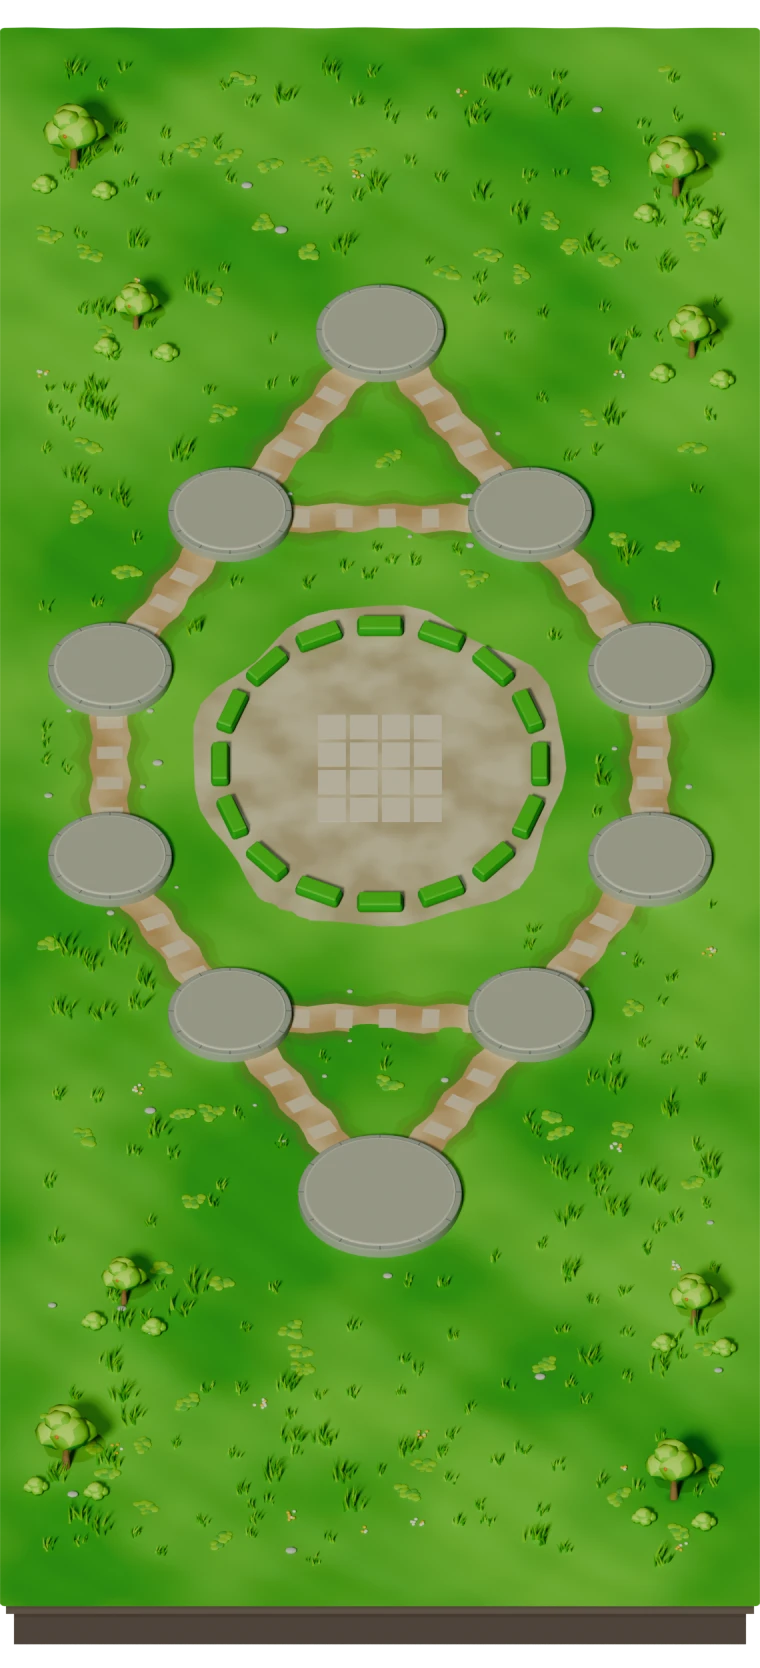
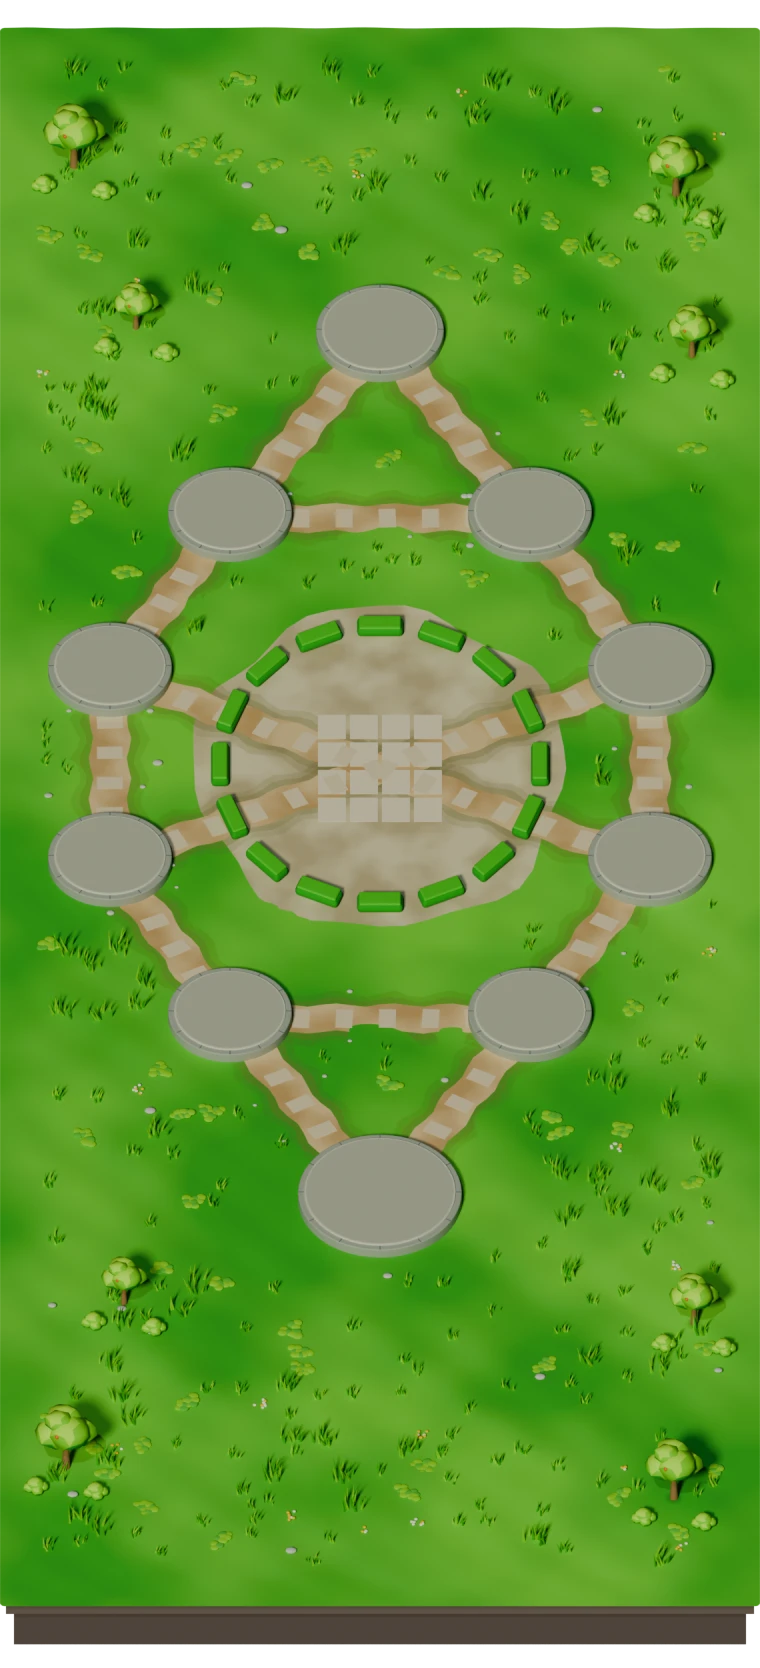
Add centre diagonals to Royal Ring so both sides reliably clash
Royal Ring was a pure ring: each frontier tower had one hostile road, so a
50% send (max 20) could never break a full 40-unit tower and 22 of 144 probe
games froze with no clash. Two 180-degree-symmetric roads (w_s-e_n, e_s-w_n)
give each frontier tower a second attacker. Probe: no-contact 22 -> 0, other
maps identical, win rates within 3 pp. Roads live in the shared
battlefields.json so TS and Go stay identical; the ground plate is re-baked
and the map art revision bumped to v1.7.

diff --git a/packages/game-core/src/__tests__/royal-ring-contact.test.ts b/packages/game-core/src/__tests__/royal-ring-contact.test.ts
@@ -1,0 +1,67 @@
+import { describe, expect, it } from 'vitest';
+import {
+  createInitialGameState, dispatchArmy, evaluateTacticalMoves, findDispatchRoute, getBattlefield,
+  getBotAiTickSeconds, stepSimulation, tacticalNeighbors, type BotDifficulty, type GameState,
+} from '../index.js';
+
+/**
+ * Royal Ring used to be a pure ring: each frontier tower had exactly one hostile
+ * road, so a 50% send (at most 20 from a 40-unit tower) could never break a full
+ * 40-unit tower and both halves froze with no clash (rules-v4.md, Balance probe).
+ * The two centre diagonals give each frontier tower a second attacking source.
+ */
+function playUntilFirstClash(map: 'royal_ring' | 'crown_cross' | 'twin_passes', difficulty: BotDifficulty, playerCadence: number): number | null {
+  let state: GameState = createInitialGameState({ gameplayRulesVersion: 4, battlefieldId: map });
+  let accumulators: Record<string, number> = {};
+  let id = 0;
+  const every = { enemy: Math.round(getBotAiTickSeconds(difficulty) / 0.02), player: Math.round(playerCadence / 0.02) };
+  const next = { ...every };
+  for (let tick = 1; tick <= 4500 && state.status === 'playing'; tick++) {
+    const step = stepSimulation(state, accumulators, 0.02);
+    state = step.state; accumulators = step.accumulators;
+    if (step.resolvedArrivals.some(r => r.previousOwner !== 'neutral' && r.attackerOwner !== r.previousOwner)) return state.elapsedTimeSeconds;
+    for (const team of ['enemy', 'player'] as const) {
+      if (state.status !== 'playing' || tick < next[team]) continue;
+      next[team] += every[team];
+      for (const move of evaluateTacticalMoves(state, team)) {
+        const d = dispatchArmy(state.territories[move.fromId], state.territories[move.toId], team, 0.5, () => `r${id++}`, 1, state);
+        if (!d.success || !d.sourceTerritory || !d.army) continue;
+        state.territories[move.fromId] = d.sourceTerritory;
+        state.armies.push(d.army);
+      }
+    }
+  }
+  return null;
+}
+
+describe('Royal Ring contact pacing', () => {
+  it('gives each frontier tower a second hostile road (centre diagonals)', () => {
+    const ring = getBattlefield('royal_ring');
+    expect(ring.roads).toHaveLength(14);
+    const state = createInitialGameState({ gameplayRulesVersion: 4, battlefieldId: 'royal_ring' });
+    expect(tacticalNeighbors(state, 'n_ring_w_n')).toEqual(['n_ring_e_s', 'n_ring_nw', 'n_ring_w_s']);
+    expect(tacticalNeighbors(state, 'n_ring_e_n')).toEqual(['n_ring_e_s', 'n_ring_ne', 'n_ring_w_s']);
+    // Mirror image for the player side.
+    expect(tacticalNeighbors(state, 'n_ring_w_s')).toContain('n_ring_e_n');
+    expect(tacticalNeighbors(state, 'n_ring_e_s')).toContain('n_ring_w_n');
+    // Legal hostile order across the diagonal (one direct road).
+    state.territories.n_ring_e_s.owner = 'player';
+    state.territories.n_ring_w_n.owner = 'enemy';
+    expect(findDispatchRoute(state, 'n_ring_e_s', 'n_ring_w_n', 'player')).toEqual(['n_ring_e_s', 'n_ring_w_n']);
+  });
+
+  it('leaves the road sets of the other maps alone', () => {
+    expect(getBattlefield('crown_cross').roads).toHaveLength(16);
+    expect(getBattlefield('twin_passes').roads).toHaveLength(9);
+  });
+
+  // These two scripted duels reached the time limit with no tower attacked before the fix.
+  it.each([
+    ['easy', 2.7],
+    ['easy', 3.6],
+  ] as const)('a scripted %s duel at cadence %s clashes before the time limit', (difficulty, cadence) => {
+    const contact = playUntilFirstClash('royal_ring', difficulty, cadence);
+    expect(contact).not.toBeNull();
+    expect(contact!).toBeLessThan(45);
+  });
+});

diff --git a/apps/game/src/scenes/__tests__/GameSceneViewportRelayout.test.ts b/apps/game/src/scenes/__tests__/GameSceneViewportRelayout.test.ts
@@ -583,7 +583,7 @@ describe('GameScene viewport relayout (map uses the live mobile height)', () => 
       const units = image.mock.calls.filter(([, path]) => path.includes('assets/units/'));
       expect(units, 'all leaders, followers and facings need a fresh revision').toHaveLength(16);
       for (const [, path] of units) {
-        expect(new URL(path, 'https://game.invalid/').searchParams.get('v')).toBe('cartoon-meadow-v1.6');
+        expect(new URL(path, 'https://game.invalid/').searchParams.get('v')).toBe('cartoon-meadow-v1.7');
       }
       for (const [key, path] of expectedAssets) {
         const calls = image.mock.calls.filter(([loadedKey]) => loadedKey === key);
@@ -591,7 +591,7 @@ describe('GameScene viewport relayout (map uses the live mobile height)', () => 
         const url = new URL(calls[0][1], 'https://game.invalid/');
         expect(url.pathname).toBe(`/${path}`);
         expect(url.searchParams.get('v'), `${key} must bypass the old immutable cache`)
-          .toBe('cartoon-meadow-v1.6');
+          .toBe('cartoon-meadow-v1.7');
       }
     },
   );

diff --git a/packages/game-core/src/__tests__/battlefields.test.ts b/packages/game-core/src/__tests__/battlefields.test.ts
@@ -271,7 +271,7 @@ describe('data-driven battlefield architecture', () => {
       // Road counts are different
       expect(cross.roads).toHaveLength(16);
       expect(passes.roads).toHaveLength(9);
-      expect(ring.roads).toHaveLength(12);
+      expect(ring.roads).toHaveLength(14);
 
       // Twin Passes has unique pass choke IDs and no center tower
       const passIds = passes.territories.map((t) => t.id);
@@ -627,7 +627,7 @@ describe('quad_citadel: the first dedicated 2v2 battlefield (§7.3)', () => {
       expect(getBattlefield('twin_passes').territories).toHaveLength(8);
       expect(getBattlefield('twin_passes').roads).toHaveLength(9);
       expect(getBattlefield('royal_ring').territories).toHaveLength(10);
-      expect(getBattlefield('royal_ring').roads).toHaveLength(12);
+      expect(getBattlefield('royal_ring').roads).toHaveLength(14);
       for (const def of ONE_V_ONE_BATTLEFIELDS) {
         expect(def.mode).toBe('1v1');
         expect(() => validateBattlefieldDefinition(def)).not.toThrow();

diff --git a/apps/game/src/scenes/GameScene.ts b/apps/game/src/scenes/GameScene.ts
@@ -463,7 +463,7 @@ export class GameScene extends Phaser.Scene {
   preload(): void {
     // Fixed asset filenames are cached for 30 days in production. Bump this
     // revision with baked map art changes so existing players load the new kit.
-    const mapArtPath = (path: string): string => `${path}?v=cartoon-meadow-v1.6`;
+    const mapArtPath = (path: string): string => `${path}?v=cartoon-meadow-v1.7`;
     // Track texture files that fail to load so the scene can substitute
     // procedural fallbacks instead of rendering broken sprites (the game must
     // never depend on the Blender source pipeline being present).

diff --git a/apps/game/src/scenes/__tests__/GameSceneBattlefieldRoads.test.ts b/apps/game/src/scenes/__tests__/GameSceneBattlefieldRoads.test.ts
@@ -19,7 +19,7 @@ describe('GameScene Battlefield Road Data Source', () => {
 
     expect(getBattlefield('crown_cross').roads).toHaveLength(16);
     expect(getBattlefield('twin_passes').roads).toHaveLength(9);
-    expect(getBattlefield('royal_ring').roads).toHaveLength(12);
+    expect(getBattlefield('royal_ring').roads).toHaveLength(14);
   });
 
   it('proves GameScene.ts contains no local hardcoded road connections array and reads from battlefield data', () => {

diff --git a/art/blender/crown_cross_kit.py b/art/blender/crown_cross_kit.py
@@ -1133,10 +1133,11 @@ def _ground_roads(bf, mats, make_material):
         length = math.hypot(bx - ax, by - ay) + 10.0
         angle = math.atan2(by - ay, bx - ax)
         cx, cy = (ax + bx) / 2.0, (ay + by) / 2.0
-        # Quad's short corner links overlap adjacent road beds. Coplanar
-        # meshes block their own Cycles shadow rays and leave black squares;
-        # tiny distinct heights avoid that without a visible gameplay lift.
-        lift = road_index * .0005 if bf['id'] == 'quad_citadel' else 0
+        # Quad's short corner links and Royal Ring's centre diagonals overlap
+        # other road beds. Coplanar meshes block their own Cycles shadow rays
+        # and leave black squares; tiny distinct heights avoid that without a
+        # visible gameplay lift.
+        lift = road_index * .0005 if bf['id'] in ('quad_citadel', 'royal_ring') else 0
         _road_strip('dry grass band', length + 12.0, 35.0, .035 + lift, angle, cx, cy, dry, 2.6, rng)
         _road_strip('road shoulder', length + 6.0, 27.0, .05 + lift, angle, cx, cy, mats['shoulder'], 2.0, rng)
         _road_strip('road bed', length, 19.0, .07 + lift, angle, cx, cy, mats['road'], 1.2, rng)
@@ -1147,7 +1148,11 @@ def _ground_roads(bf, mats, make_material):
                 t = step / length
                 px = ax + (bx - ax) * t
                 py = ay + (by - ay) * t
-                box('worn path stone', (8.5, 13.0, .12), (px, py, .13),
+                # Royal Ring's diagonals cross the court's inlaid pavers
+                # (top at .19); a distinct lift keeps those tops from being
+                # coplanar, which renders black patches under Cycles.
+                stone_z = .13 + lift + (.004 if bf['id'] == 'royal_ring' else 0)
+                box('worn path stone', (8.5, 13.0, .12), (px, py, stone_z),
                     mats['paving'], .7, rot=(0, 0, angle + (rng.random() - .5) * .12))
 
 

diff --git a/apps/server-nakama/tactical_test.go b/apps/server-nakama/tactical_test.go
@@ -55,6 +55,33 @@ func TestTacticalRoutesAndInterruption(t *testing.T) {
 	}
 }
 
+// Royal Ring was a pure ring: each frontier tower had one hostile road, so a 50%
+// send could never break a full tower and both halves froze with no clash. The
+// two centre diagonals give each frontier tower a second attacking source. This
+// must stay identical to the TS road set (royal-ring-contact.test.ts).
+func TestTacticalRoyalRingCentreDiagonals(t *testing.T) {
+	s := CreateInitialGameStateForBattlefield(DefaultModifiers(), DefaultModifiers(), "royal_ring")
+	s.GameplayRulesVersion = 4
+	if got := len(battlefieldRoads["royal_ring"]); got != 14 {
+		t.Fatalf("royal_ring roads = %d, want 14", got)
+	}
+	if got := tacticalNeighbors(s, "n_ring_w_n"); !reflect.DeepEqual(got, []string{"n_ring_e_s", "n_ring_nw", "n_ring_w_s"}) {
+		t.Fatal(got)
+	}
+	if got := tacticalNeighbors(s, "n_ring_e_n"); !reflect.DeepEqual(got, []string{"n_ring_e_s", "n_ring_ne", "n_ring_w_s"}) {
+		t.Fatal(got)
+	}
+	a, b := s.Territories["n_ring_e_s"], s.Territories["n_ring_w_n"]
+	a.Owner, b.Owner = TeamPlayer, TeamEnemy
+	s.Territories[a.ID], s.Territories[b.ID] = a, b
+	if got := findDispatchRoute(s, "n_ring_e_s", "n_ring_w_n", TeamPlayer); !reflect.DeepEqual(got, []string{"n_ring_e_s", "n_ring_w_n"}) {
+		t.Fatal(got)
+	}
+	if len(battlefieldRoads["crown_cross"]) != 16 || len(battlefieldRoads["twin_passes"]) != 9 {
+		t.Fatal("other 1v1 maps must keep their road sets")
+	}
+}
+
 func TestTacticalPostgresVersionPinningAndSettlement(t *testing.T) {
 	s, now := realmTestStore(t)
 	ctx := context.Background()

diff --git a/docs/rules-v4.md b/docs/rules-v4.md
@@ -75,39 +75,71 @@ Each ability can be used once per match, from 15 s of match time. It is recorded
 
 | Player commander | No bot ability | Bot ability |
 |---|---:|---:|
-| none | 26.9% | 22.2% |
-| crown_guard | 34.3% | 31.5% |
-| quartermaster | 32.4% | 28.7% |
-| vanguard | 35.2% | 31.5% |
+| none | 27.8% | 23.1% |
+| crown_guard | 38.0% | 32.4% |
+| quartermaster | 34.3% | 31.5% |
+| vanguard | 35.2% | 32.4% |
 
-By difficulty, a player with no commander: normal 13.9% → 8.3%, hard 13.9% → 5.6% (easy unchanged at 52.8%). The bot spent its ability in 144 of 144 normal games and 144 of 144 hard games. Each player commander still adds 6.5-9.3 pp over none, so the player ability keeps its value. The probe policies are scripted and weaker than people, so these are relative shifts, not expected human win rates.
+By difficulty, a player with no commander: normal 13.9% → 8.3%, hard 13.9% → 5.6% (easy unchanged at 55.6%). The bot spent its ability in 144 of 144 normal games and 144 of 144 hard games. Each player commander still adds 8.4-9.3 pp over none, so the player ability keeps its value. The probe policies are scripted and weaker than people, so these are relative shifts, not expected human win rates.
 
 Run `node scripts/rules-v4-balance.mjs`. The output goes to the git-ignored file `qa-artifacts/rules-v4/balance.json`.
 
-The probe pits 4 scripted player policies × 3 player cadences against the real tactical bot. It covers every difficulty on all three 1v1 maps, with equal troops: 432 games in total. The policies are probes and do not model human skill.
+The tables above are the baseline with no bot ability (`BOT_ABILITY=off`), refreshed after the Royal Ring road change below. The probe pits 4 scripted player policies × 3 player cadences against the real tactical bot. It covers every difficulty on all three 1v1 maps, with equal troops: 432 games in total. The policies are probes and do not model human skill.
 
 **Player win rate by commander**
 
 | Commander | Win rate | Δ vs none |
 |---|---:|---:|
-| none | 26.9% | — |
-| crown_guard | 34.3% | +7.4 pp |
-| quartermaster | 32.4% | +5.5 pp |
-| vanguard | 35.2% | +8.3 pp |
+| none | 27.8% | — |
+| crown_guard | 38.0% | +10.2 pp |
+| quartermaster | 34.3% | +6.5 pp |
+| vanguard | 35.2% | +7.4 pp |
 
 **Player win rate by difficulty (none / guard / quartermaster / vanguard)**
 
 | Difficulty | none | guard | quartermaster | vanguard |
 |---|---:|---:|---:|---:|
-| easy | 52.8% | 55.6% | 58.3% | 63.9% |
-| normal | 13.9% | 25.0% | 19.4% | 16.7% |
-| hard | 13.9% | 22.2% | 19.4% | 25.0% |
+| easy | 55.6% | 61.1% | 66.7% | 63.9% |
+| normal | 13.9% | 25.0% | 16.7% | 16.7% |
+| hard | 13.9% | 27.8% | 19.4% | 25.0% |
 
 **How the numbers were tuned**
-- The target was "≤ ~10 pp shift, no dominant commander".
+- The target was "≤ ~10 pp shift, no dominant commander". The Royal Ring diagonals moved crown_guard from +7.4 to +10.2 pp in the no-bot-ability baseline (other commanders +1 pp), still at the edge of that target.
 - First pass: supply +10 gave +12.9 pp, and the old 100% all-in charge gave 0 pp (the empty source tower got counterattacked).
 - Final values: supply +5, and a charge that is a 50% send arriving ×2 stronger and ×1.5 faster.
 
 **Still open**
-- Royal Ring still has 22 of 144 probe games with no direct clash between the two sides. This matches the v3 pacing warning, and abilities do not fix it.
-- Human playtests and real-device checks are pending.
+- Human playtests and real-device checks are pending, including a feel check of the two Royal Ring diagonals and of the re-baked ground plate.
+
+## Royal Ring contact pacing
+
+**Problem.** Before this change 22 of 144 Royal Ring probe games ended at the 90 s limit with no attack on an owned tower (crown_cross 0, twin_passes 0). Abilities did not help.
+
+**Cause (measured).**
+- In every such game both players took their own four neutral towers and then stalled. Final state: each side held its half of the ring at the 40-unit cap (`sw`/`se`/`w_s`/`e_s` against `nw`/`ne`/`w_n`/`e_n`).
+- A send is 50% of the source, so at most 20 units leave a full tower. A full 40-unit barracks/stable defends with 40 and `20 > 40` is false.
+- The ring has only two frontier roads (`w_s`-`w_n`, `e_s`-`e_n`). Hostile orders need one direct road, so a frontier tower had exactly one possible attacker. Nothing could ever concentrate force. The bases (65 units) have no road to the frontier, so their stock cannot attack either.
+- crown_cross and twin_passes do not stall: their centre / pass towers touch both halves, so a target has several attackers and first contact comes at a median of 7.4 s and 12.8 s.
+- It is not abilities (`BOT_ABILITY=off` also had 22) and not a slow bot. The stalled games were normal/hard bot vs the flank/split scripts at the fast 1.8 s cadence (16), plus easy-bot counter duels (6). All of them end in the same frozen ring.
+
+**Fix.** Two roads added to `royal_ring` in `apps/server-nakama/battlefields.json` (the single source for TS and Go): `n_ring_w_s`-`n_ring_e_n` and `n_ring_e_s`-`n_ring_w_n`. They cross in the middle of the court, are 180-degree images of each other, and give each frontier tower a second attacker (`w_n` can now be hit from `w_s` and `e_s`). No economy, rule or AI code changed, so TS and Go stay identical by construction. The ground plate was re-baked from the same JSON (`ground_royal_ring.webp`), with a tiny per-road height lift in `art/blender/crown_cross_kit.py` so the crossing road beds do not render black squares.
+
+**Result (probe, 432 games, bot ability on).**
+
+| | Before | After |
+|---|---:|---:|
+| no-contact games, royal_ring | 22 / 144 | 0 / 144 |
+| no-contact games, crown_cross / twin_passes | 0 / 0 | 0 / 0 (outputs identical) |
+| Royal Ring first contact median / p90 / max | 14.6 / 20.0 / 23.6 s | 14.6 / 20.0 / 20.0 s |
+| player win rate, none commander, easy / normal / hard | 52.8 / 8.3 / 5.6% | 55.6 / 8.3 / 5.6% |
+| player win rate, all commanders, all maps | 22.2-31.5% | 23.1-32.4% |
+| Royal Ring player win rate, easy / normal / hard | 43.8 / 4.2 / 0.0% | 56.3 / 2.1 / 2.1% |
+
+First contact is not earlier; the stalled games now clash instead of waiting out the clock. Easy Royal Ring moved 12.5 pp because 6 formerly frozen games are now decided by fighting. Normal and hard Royal Ring stay near 0% for these weak scripted policies, as before, so this is not a difficulty tuning.
+
+**Compatibility.**
+- Roads are only read by tactical rules (v3 and v4). v1/v2 and live PvP ignore them.
+- v3 is already live: a v3 Royal Ring match settling after this deploy replays with the new roads (new legal attacks, bot may use the diagonals, and friendly reinforcement routes can take a diagonal when it is shorter). A client running the old bundle would simulate the old roads. The window is one match (at most 90 s of play plus ticket life), the server result is authoritative, and v4 has not shipped, so the change was made in place rather than as a new rules version.
+- Deploy the server and client together, as for v4.
+
+**Not verified.** A real-device look at the diagonals and the new ground plate, and human playtests. Probe policies are scripted.

diff --git a/docs/launch-tasks.md b/docs/launch-tasks.md
@@ -21,7 +21,7 @@ Status as of 2026-10-25. Source: pre-release audit (mechanic, UX, retention).
 - [x] Visual overhaul: UI tokens, `ui/kit`, vector icon set, rebuilt Menu/Kingdom/Daily/League/Commander, rounded battle HUD and modals, result screen with icons and victory confetti, capture particles, team-coloured convoy badges, battle load bar, scene fades, master audio bus + UI click.
 - [ ] Deploy order: server (migration 021, v4 negotiation) before the client.
 - [x] The bot uses its own ability on normal (quartermaster) and hard (vanguard); easy has none. TS + Go parity, tests and probe numbers in `docs/rules-v4.md`. Needs a human playtest to confirm normal/hard did not get too hard (probe shift: -5.6 pp normal, -8.3 pp hard for the weakest scripted player).
-- [ ] Royal Ring no-contact pacing is still open.
+- [x] Royal Ring no-contact pacing: cause was a pure ring (one hostile road per frontier tower, so a 50% send can never break a full 40-unit tower). Two centre diagonals added to `battlefields.json` (TS + Go share it) and the ground plate re-baked; probe no-contact games 22/144 -> 0/144, other maps identical, win rates within 3 pp (easy Royal Ring +12.5 pp from formerly frozen games). Details and compatibility notes in `docs/rules-v4.md`. Still needs a human look at the new roads on a real device.
 - [x] MenuScene's async init no longer keeps running after the scene stops (generation guard, regression test `MenuSceneStaleInit`). Still worth a check on device.
 - [x] Kingdom hero uses 256px hub-only sprites (`apps/game/public/assets/hub`, built by `scripts/export-hub-art.mjs` from the 512px masters). Battle sprites stay 128-160px.
 

diff --git a/ART_BIBLE.md b/ART_BIBLE.md
@@ -35,7 +35,8 @@ pale building stone and saturated blue/red roofs retain distinct material values
 under the same lighting rig. Marching numbers choose one offset for their full
 route and follow the squad continuously, independent of stride animation; only
 viewport edges clamp their position. All map **and unit** requests use
-`cartoon-meadow-v1.6`.
+`cartoon-meadow-v1.7`: the Royal Ring ground plate was re-baked with two centre
+diagonal roads (gameplay change, no style change).
 
 ## 1. Visual Pillars
 

diff --git a/docs/art/README.md b/docs/art/README.md
@@ -1,7 +1,7 @@
 # Battlefield Art Pipeline (Blender → Runtime)
 
 Production caches fixed sprite filenames for 30 days. `GameScene.preload()`
-adds `?v=cartoon-meadow-v1.6` to ground, building, shared prop **and all marching-unit** requests.
+adds `?v=cartoon-meadow-v1.7` to ground, building, shared prop **and all marching-unit** requests.
 Bump that revision whenever this baked map kit changes, and update the preload
 regression test, so returning players receive matching terrain, buildings and troops.
 
